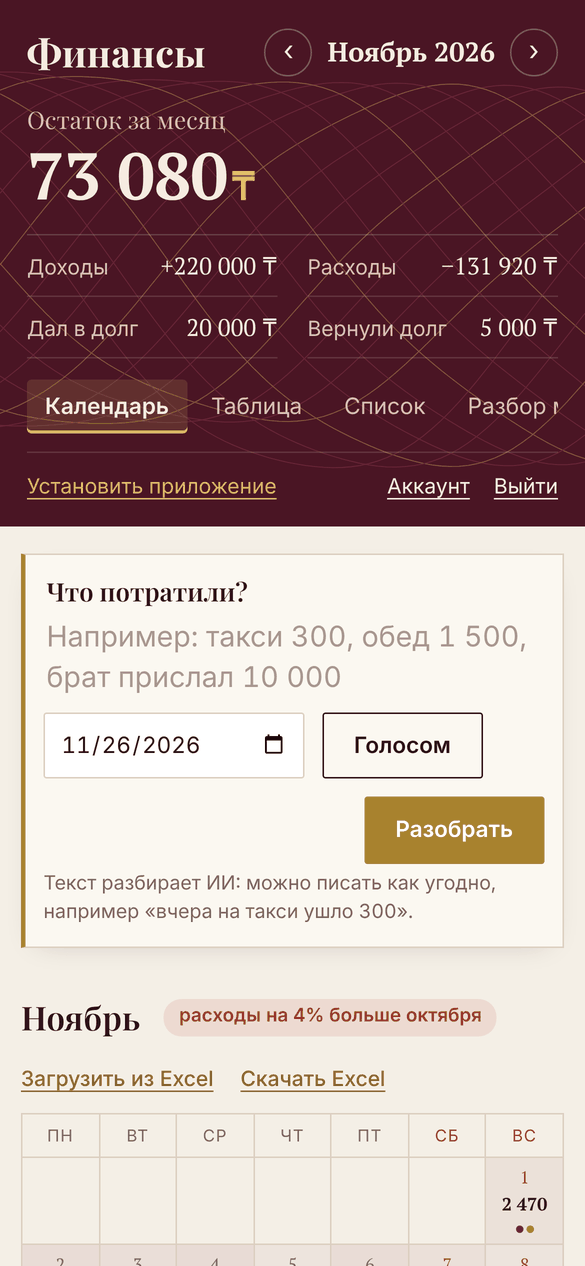
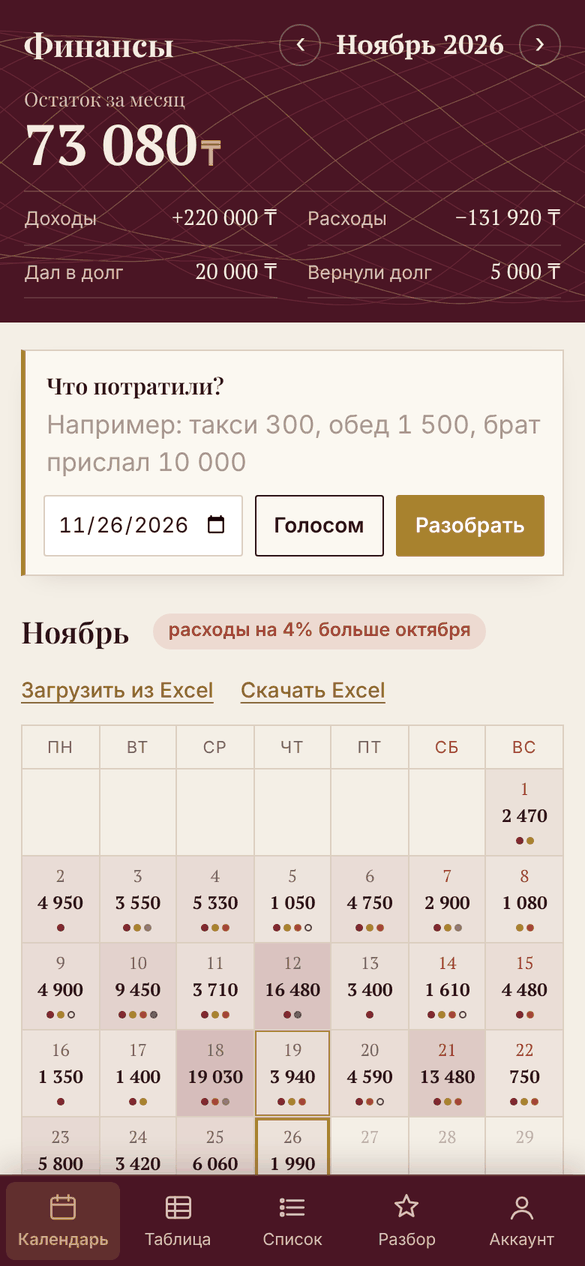
Мобильная версия: нижняя панель вкладок и только главное на экране
- Вкладки Календарь, Таблица, Список, Разбор, Аккаунт — внизу, как в приложении
- Компактная шапка; «Установить», «Выйти» — в окне «Аккаунт»
- Ввод: поле на всю ширину, дата, голос и «Разобрать» в одну строку
- По умолчанию календарь; сводка за месяц, график по дням и подсказка ИИ скрыты,
  в «Куда ушли деньги» — первые 5 категорий и «Показать все»
- Исправлено растягивание страницы шире экрана строкой недель

Claude-Session: https://claude.ai/code/session_01D18ToZkGrqXhip1NXrQjjc

diff --git a/app/static/style.css b/app/static/style.css
@@ -89,6 +89,8 @@ h2 { font-size: 22px; margin: 0; }
 .rail-nav .tab[aria-selected="true"] {
   color: var(--note-text); font-weight: 600; background: rgba(220, 184, 102, .16); box-shadow: inset 3px 0 0 var(--ochre-light);
 }
+.nav-ico, .rail-nav .sm, #nav-account, .bars-more { display: none; }
+.account-quick { display: none; }
 .rosette { display: block; width: 130px; height: 130px; margin: 22px auto 0; flex: none; }
 @media (max-height: 860px) and (min-width: 901px) { .rosette { display: none; } .rail-nav { margin-top: 18px; } }
 
@@ -412,6 +414,7 @@ input, select, textarea { border-radius: 2px; }
 .danger-zone h3 { color: var(--brick); }
 
 /* ---------- Календарь ---------- */
+.cal-below > * { min-width: 0; }
 .cal-below { display: grid; grid-template-columns: minmax(0, 1fr) minmax(0, 1fr); gap: 32px; margin-top: 18px; align-items: start; }
 .cal-legend i.ring, .cal-dots i.ring { background: transparent; border: 1.5px solid var(--teal-2); }
 .cal { display: grid; grid-template-columns: repeat(7, minmax(0, 1fr)); border-top: 1px solid var(--rule); border-left: 1px solid var(--rule); }
@@ -517,3 +520,71 @@ input, select, textarea { border-radius: 2px; }
 
 .auth-or { display: flex; align-items: center; gap: 10px; margin: 14px 0; color: var(--muted); font-size: 13px; }
 .auth-or::before, .auth-or::after { content: ""; flex: 1; border-top: 1px solid var(--rule); }
+
+/* ---------- Телефон: шапка, нижняя панель вкладок, только главное ---------- */
+@media (max-width: 720px) {
+  html, body { overflow-x: clip; }
+  body { padding-bottom: calc(64px + env(safe-area-inset-bottom)); }
+  .rail { z-index: 30; } /* нижняя панель вкладок живёт внутри шапки — шапка должна быть выше страницы */
+  .rail-inner { padding: 14px 16px 16px; }
+  .brand { font-size: 21px; }
+  .month-arrow { width: 28px; height: 28px; }
+  .hero { margin-top: 10px; }
+  .hero-label { font-size: 13px; }
+  .hero-value { font-size: 38px; }
+  .flows { margin-top: 10px; }
+  .flows > div { padding: 6px 0; }
+  .flows dt { font-size: 12.5px; }
+  .flows dd { font-size: 14.5px; }
+  .account { display: none; }
+
+  /* Нижняя панель как в приложении */
+  .rail-nav {
+    position: fixed; z-index: 40; left: 0; right: 0; bottom: 0; margin: 0;
+    display: grid; grid-template-columns: repeat(5, 1fr); gap: 0;
+    padding: 4px 4px calc(4px + env(safe-area-inset-bottom));
+    background: var(--wine); border-top: 1px solid rgba(220, 184, 102, .25);
+    box-shadow: 0 -6px 18px rgba(42, 20, 24, .18); overflow: visible;
+  }
+  .rail-nav .tab {
+    display: flex; flex-direction: column; align-items: center; gap: 2px; width: auto;
+    padding: 6px 2px; font-size: 11px; text-align: center; border-radius: 6px; white-space: nowrap;
+  }
+  .rail-nav .tab[aria-selected="true"] { box-shadow: none; background: rgba(220, 184, 102, .16); color: var(--ochre-light); }
+  .nav-ico { display: block; width: 22px; height: 22px; }
+  .nav-ico svg { width: 100%; height: 100%; fill: none; stroke: currentColor; stroke-width: 1.6; stroke-linecap: round; stroke-linejoin: round; }
+  #nav-account { display: flex; }
+  #nav-debts, #nav-limits { display: none !important; }
+  .rail-nav .lg { display: none; }
+  .rail-nav .sm { display: inline; }
+  .account-quick { display: flex; gap: 8px; padding: 12px 20px 0; flex-wrap: wrap; }
+  .account-quick .btn { padding: 8px 14px; font-size: 14px; }
+
+  /* Ввод: поле на всю ширину, под ним одна строка — дата, голос, разобрать */
+  .entry { margin-bottom: 22px; }
+  .entry-label { font-size: 15px; }
+  #text { font-size: 17px; min-height: 52px; }
+  .entry-line { gap: 8px; }
+  #date { flex: 1 1 0; min-width: 0; padding: 8px; font-size: 14px; }
+  #voice, #parse { padding: 9px 12px; font-size: 14px; }
+  #parse { margin-left: 0; }
+  .ai-note { display: none; }
+
+  /* Календарь без лишнего: сводка за месяц есть в «Куда ушли деньги» */
+  .cal-month { display: none; }
+  .cal-below { margin-top: 12px; gap: 16px; }
+  .cal-legend { font-size: 12px; gap: 6px 12px; }
+  .cal-weeks { display: flex; overflow-x: auto; gap: 14px; scrollbar-width: none; margin-top: 12px; }
+  .cal-weeks::-webkit-scrollbar { display: none; }
+  .cal-week { flex: none; min-width: 112px; }
+  .ledger-bar h2 { font-size: 20px; }
+  .ledger-actions { font-size: 13px; }
+
+  /* Справа → снизу: только главное */
+  .chart-panel { display: none; }
+  .bars:not(.all) > .bar:nth-child(n + 6) { display: none; }
+  .bars-more { display: inline-block; margin-top: 4px; }
+  .bar-meta { font-size: 12px; }
+  .main-col { gap: 28px; }
+  .side-col { gap: 28px; }
+}

diff --git a/app/static/app.js b/app/static/app.js
@@ -294,6 +294,16 @@ function renderSummary(summary) {
       note || delta ? el("div", { class: "bar-meta" }, note, delta) : null,
     ));
   }
+  // На телефоне видны первые 5 категорий, остальные — по кнопке
+  if (expenses.length > 5) {
+    box.classList.remove("all");
+    const more = el("button", { type: "button", class: "link-btn bars-more" }, `Показать все (${expenses.length})`);
+    more.addEventListener("click", () => {
+      const all = box.classList.toggle("all");
+      more.textContent = all ? "Свернуть" : `Показать все (${expenses.length})`;
+    });
+    box.append(more);
+  }
 }
 
 // ---------- График расходов по дням ----------
@@ -783,7 +793,7 @@ function renderCalendarRange(sel, items) {
     byCat.set(r.category, c);
   }
   const days = new Set(expenses.map((r) => r.date)).size;
-  const panel = el("aside", { class: "cal-day", "aria-live": "polite" },
+  const panel = el("aside", { class: `cal-day${sel ? "" : " cal-month"}`, "aria-live": "polite" },
     el("div", { class: "cal-day-head" }, el("h3", {}, title), sel ? backToMonth() : null),
     el("p", { class: "cal-sub" }, items.length
       ? `${items.length} ${plural(items.length, "запись", "записи", "записей")}` +
@@ -1179,6 +1189,7 @@ async function logout() {
 function openAccount() {
   for (const id of ["pw-current", "pw-new", "pw-repeat", "del-password"]) $(id).value = "";
   $("account-email").textContent = state.user?.email || "";
+  $("account-install").hidden = $("install").hidden;
   $("del-confirm").checked = false;
   $("del-submit").disabled = true;
   for (const id of ["pw-note", "del-note"]) {
@@ -1323,6 +1334,9 @@ async function init() {
   const goTo = (node) => node.scrollIntoView({ behavior: "smooth", block: "start" });
   $("nav-review").addEventListener("click", () => goTo(document.querySelector(".review")));
   $("nav-debts").addEventListener("click", () => goTo($("debts")));
+  $("nav-account").addEventListener("click", openAccount);
+  $("account-logout").addEventListener("click", () => { $("account-dialog").close(); logout(); });
+  $("account-install").addEventListener("click", () => { $("account-dialog").close(); $("install").click(); });
   $("nav-limits").addEventListener("click", () => openLimits().catch((e) => setStatus(e.message, true)));
   for (const id of ["tab-calendar", "tab-table", "tab-list"]) {
     $(id).addEventListener("click", () => {
@@ -1350,7 +1364,9 @@ async function init() {
       if (state.summary) renderDailyChart(state.summary);
     }, 150);
   });
-  setView(["list", "calendar"].includes(storage.get("view")) ? storage.get("view") : "table");
+  const savedView = storage.get("view");
+  const defaultView = matchMedia("(max-width: 720px)").matches ? "calendar" : "table";
+  setView(["table", "list", "calendar"].includes(savedView) ? savedView : defaultView);
 
   $("auth-form").addEventListener("submit", submitAuth);
   $("auth-demo").addEventListener("click", async () => {

diff --git a/app/static/index.html b/app/static/index.html
@@ -51,13 +51,14 @@
 
       <nav id="rail-nav" class="rail-nav" aria-label="Разделы" hidden>
         <div role="tablist" aria-label="Вид записей" class="rail-tabs">
-          <button type="button" role="tab" id="tab-calendar" class="tab" aria-selected="false">Календарь</button>
-          <button type="button" role="tab" id="tab-table" class="tab" aria-selected="true">Таблица</button>
-          <button type="button" role="tab" id="tab-list" class="tab" aria-selected="false">Список</button>
+          <button type="button" role="tab" id="tab-calendar" class="tab" aria-selected="false"><i class="nav-ico" aria-hidden="true"><svg viewBox="0 0 24 24"><rect x="3.5" y="5" width="17" height="15" rx="2"/><path d="M3.5 10h17M8 3v4M16 3v4"/></svg></i>Календарь</button>
+          <button type="button" role="tab" id="tab-table" class="tab" aria-selected="true"><i class="nav-ico" aria-hidden="true"><svg viewBox="0 0 24 24"><rect x="3.5" y="4.5" width="17" height="15" rx="2"/><path d="M3.5 9.5h17M3.5 14.5h17M9.5 4.5v15"/></svg></i>Таблица</button>
+          <button type="button" role="tab" id="tab-list" class="tab" aria-selected="false"><i class="nav-ico" aria-hidden="true"><svg viewBox="0 0 24 24"><path d="M8 7h12M8 12h12M8 17h12"/><circle cx="4.5" cy="7" r="1"/><circle cx="4.5" cy="12" r="1"/><circle cx="4.5" cy="17" r="1"/></svg></i>Список</button>
         </div>
-        <button type="button" id="nav-review" class="tab">Разбор месяца</button>
+        <button type="button" id="nav-review" class="tab"><i class="nav-ico" aria-hidden="true"><svg viewBox="0 0 24 24"><path d="M12 3l2.3 5.2 5.7.6-4.3 3.8 1.3 5.6L12 15.3 7 18.2l1.3-5.6L4 8.8l5.7-.6z"/></svg></i><span class="lg">Разбор месяца</span><span class="sm">Разбор</span></button>
         <button type="button" id="nav-debts" class="tab" hidden>Долги</button>
         <button type="button" id="nav-limits" class="tab">Лимиты</button>
+        <button type="button" id="nav-account" class="tab"><i class="nav-ico" aria-hidden="true"><svg viewBox="0 0 24 24"><circle cx="12" cy="8.5" r="3.8"/><path d="M4.5 20c1.2-3.8 4-5.5 7.5-5.5s6.3 1.7 7.5 5.5"/></svg></i>Аккаунт</button>
       </nav>
 
       <svg class="rosette" id="rosette" viewBox="0 0 200 200" aria-hidden="true"></svg>
@@ -223,6 +224,10 @@
     </div>
 
     <p class="account-email">Вы вошли как <strong id="account-email"></strong></p>
+    <div class="account-quick">
+      <button type="button" id="account-install" class="btn ghost">Установить приложение</button>
+      <button type="button" id="account-logout" class="btn ghost">Выйти</button>
+    </div>
 
     <form id="password-form" class="account-section" novalidate>
       <h3>Сменить пароль</h3>
